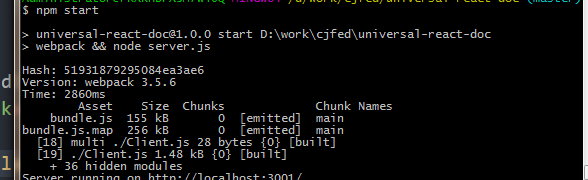
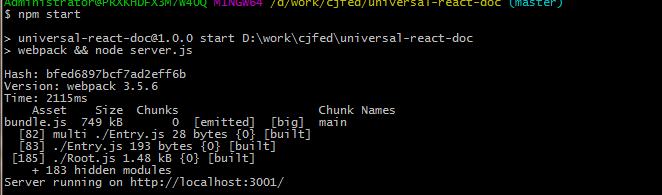
feat: 修改webpack配置，完善文档

Changed region(s): [[0.0, 0.0, 1.0, 1.0]]

diff --git a/webpack.config.js b/webpack.config.js
@@ -1,7 +1,8 @@
+// webpack.config.js
 const path = require('path');
 const webpack = require('webpack');
 module.exports = {
-    entry: './Entry.js',
+    entry: ['./Entry.js'],
     output: {
         filename: 'bundle.js',
         path: path.join(__dirname, 'public'),
@@ -9,7 +10,7 @@ module.exports = {
     module: {
         loaders: [
             {
-                test: /\.jsx$/,
+                test: /\.js|x?$/,
                 exclude: /node_modules/,
                 loader: 'babel-loader',
                 query: {

diff --git a/server.js b/server.js
@@ -5,11 +5,11 @@ require('babel-register')({
 const express = require('express');
 const Server = express();
 
-const Root = require('./Root.jsx');
+const Root = require('./Root.js');
 const React = require('react');
 const ReactDOMServer = require('react-dom/server');
 
-// 静态文件路径
+// 托管静态文件
 Server.use(express.static('public'));
 
 Server.get('/', function (request, response) {

diff --git a/Entry.js b/Entry.js
@@ -1,8 +1,10 @@
+// Entry.js
 const React = require('react');
 const ReactDOM = require('react-dom');
-const Root = require('./Root.jsx');
+const Root = require('./Root.js');
 
 ReactDOM.render(
     React.createElement(Root),
+    // document 可以理解为浏览器
     document
 );

diff --git a/README.md b/README.md
@@ -43,7 +43,7 @@ Server running on http://localhost:3001/
 `如果报express没有发现，全局安装express即可`<br />
 ### 加入react
 >yarn add react react-dom 或者 npm install react react-dom --save<br />
->创建client.js文件<br />
+>创建 Root.js文件<br />
 ```js
 // Root.js
 const React = require('react');
@@ -120,10 +120,11 @@ require('babel-register')({
     <img src="./image/data-reactid.png" alt="data-reactid" width="100%">
 </p>
 
-这时候点击按钮，发现什么都没发生; 这是因为 ReactDOMServer 只是像字符串一样渲染出 html，换句话说只是在服务端渲染了，客户端还没有`接管代码`，所以这时候还不算是同构；
->为了达到同构的效果，我们需要加入/修改一些文件
+这时候点击按钮，发现什么都没发生; 而且控制台也只出现`willMount`没有出现`didMount`, 这是因为 ReactDOMServer 只是像字符串一样渲染出 html，换句话说只是在服务端渲染了，客户端还没有`接管代码`，这时候还不算是同构；
+>为了达到同构的效果，我们需要加入/修改一些文件<br />
+>修改 Root.js 把render return 里面的 节点 替换成 html 的形式
 ```js
-// Root.js 把render return 里面的 节点 替换成 html 的形式
+// Root.js
 // ...
 render() {
     return (
@@ -144,7 +145,67 @@ render() {
         </html>
     );
 }
-
-// 
 ```
+- 新增 public 文件夹，用于存放静态文件 <br />
+>mkdir public
+- 新增 Entry.js 文件, 用于处理 `服务端渲染时，前端的同构`
+>touch Entry.js
+```js
+// Entry.js
+const React = require('react');
+const ReactDOM = require('react-dom');
+const Root = require('./Root.js');
+
+ReactDOM.render(
+    React.createElement(Root),
+    // document 可以理解为浏览器
+    document
+);
+```
+- 安装 babel-loader webpack 依赖
+>yarn add webpack babel-loader 或者 npm install webpack babel-loader --save
+- 新增 webpack.config.js 文件
+>touch webpack.config.js<br />
+>本文主要是讲解服务端渲染，webpack详细的配置问题这边不做详细讲解
+```js
+// webpack.config.js
+const path = require('path');
+const webpack = require('webpack');
+module.exports = {
+    entry: ['./Entry.js'],
+    output: {
+        filename: 'bundle.js',
+        path: path.join(__dirname, 'public'),
+    },
+    module: {
+        loaders: [
+            {
+                test: /\.js|x?$/,
+                exclude: /node_modules/,
+                loader: 'babel-loader',
+                query: {
+                    presets: ['react']
+                }
+            }
+        ]
+    }
+};
+```
+- 修改server.js,加入托管静态文件的功能
+```js
+// ...
+// 托管静态文件
+Server.use(express.static('public'));
+// ...
+```
+- 修改package.json 的 "scripts"
+```js
+"scripts": {
+    "start": "webpack && node server.js"
+},
+```
+>npm start 重启服务器
+<p align="center">
+    <img src="./image/bundle.png" alt="bundle" width="100%">
+</p>
 
